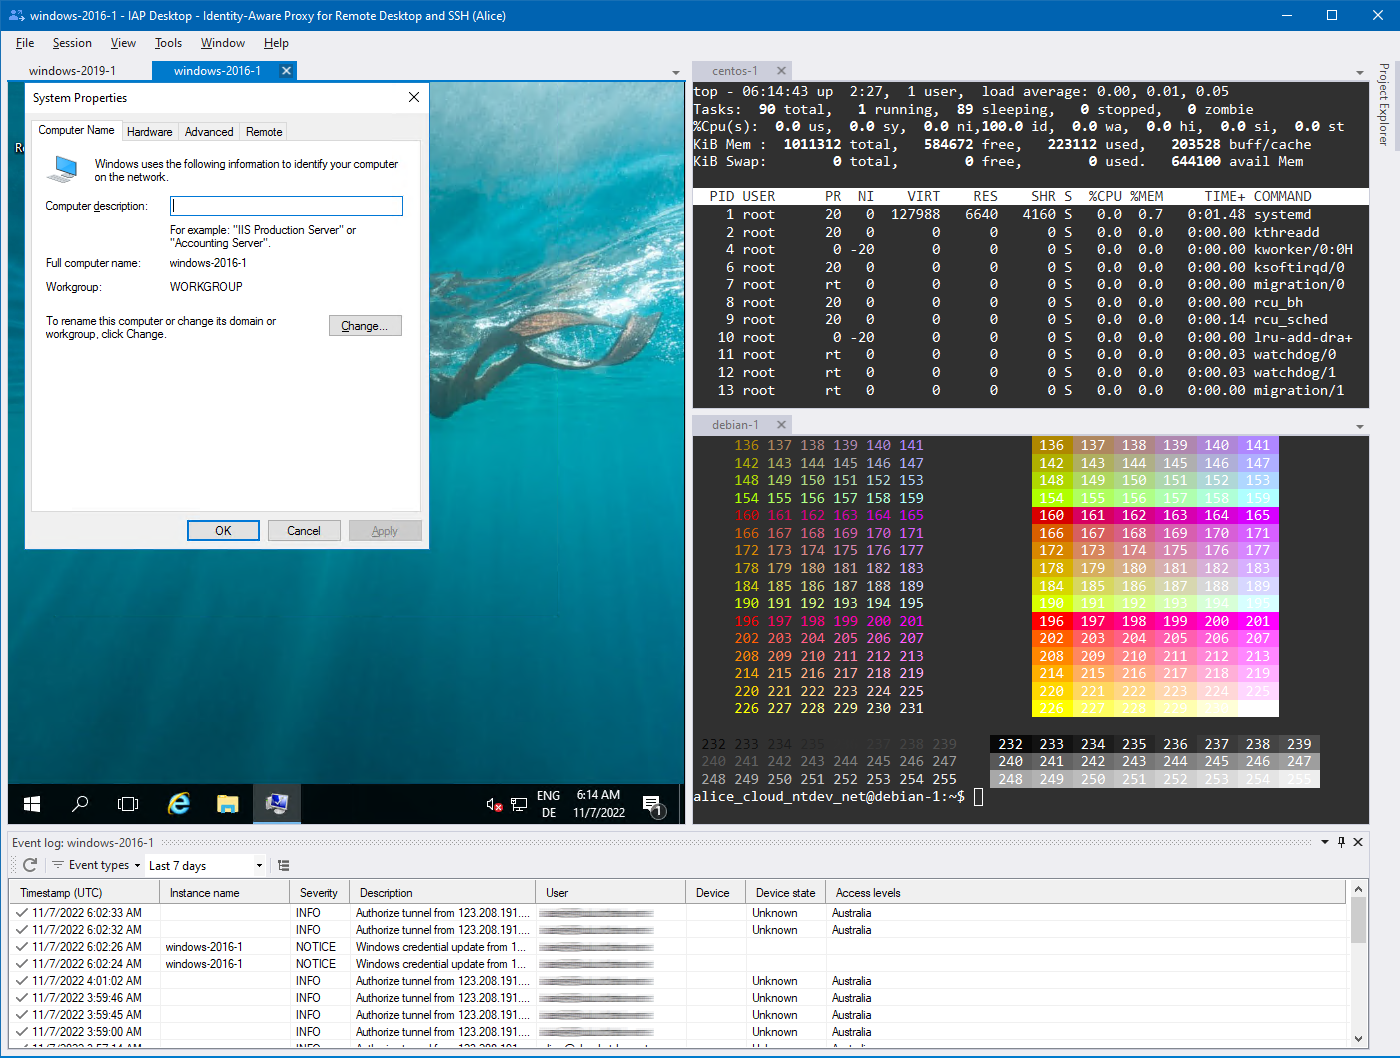
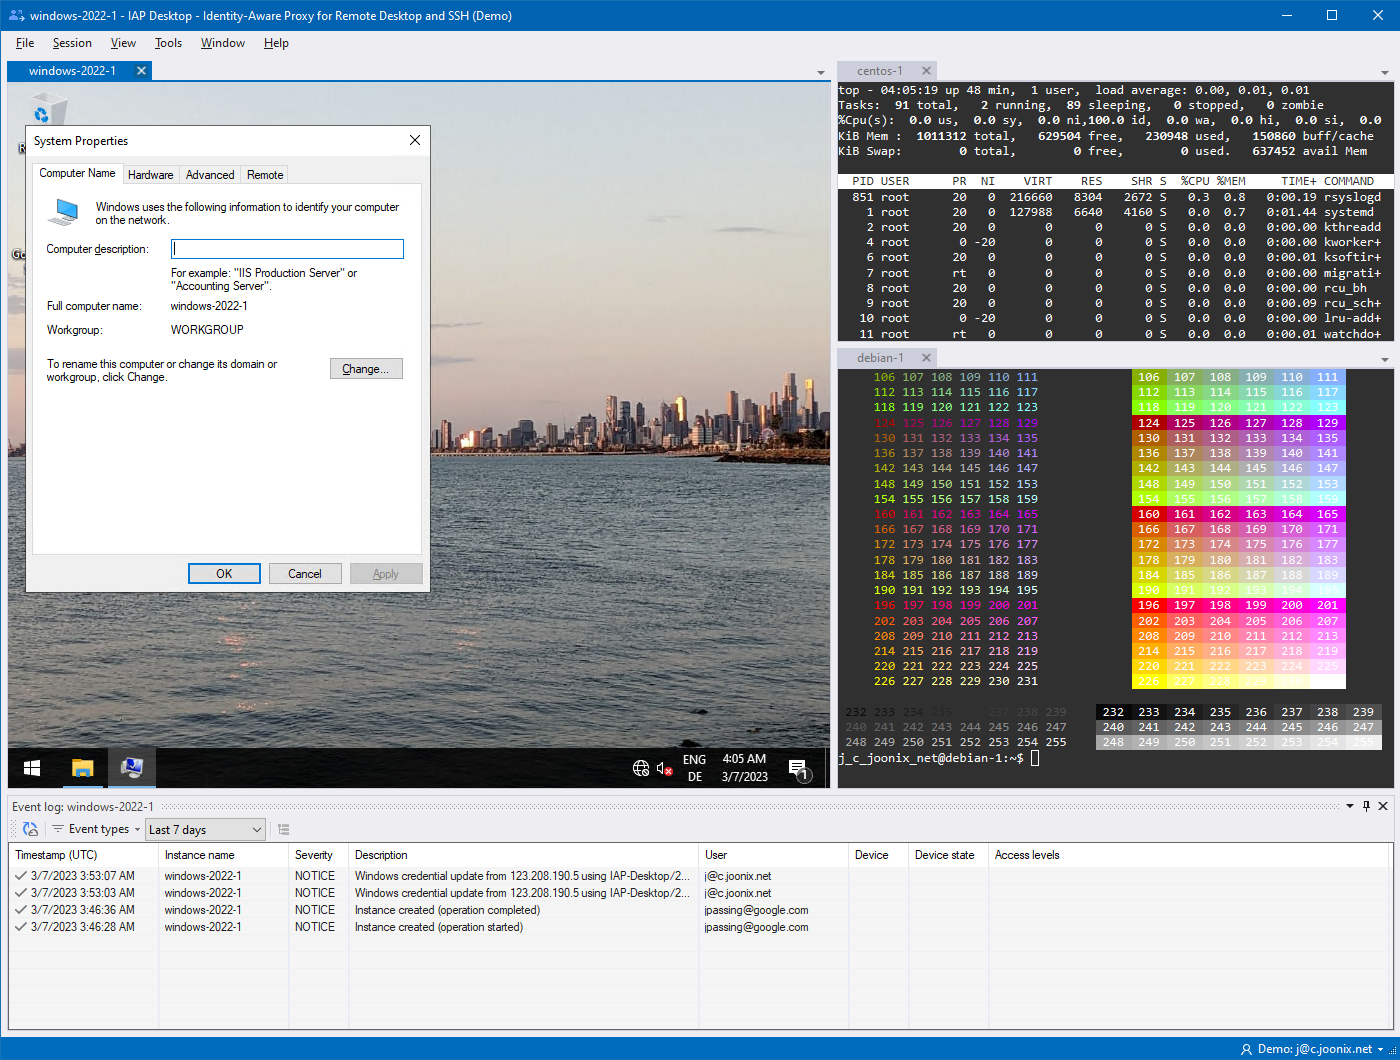
b/268297035 Update screenshots to show new theme (#895)

diff --git a/README.md b/README.md
@@ -31,26 +31,30 @@ The application automatically manages IAP TCP tunnels for you, and protects them
 
 ## Connect to Windows VMs with Remote Desktop
 
-<img src='doc/images/RemoteDesktop_350.gif?_=1' align='right'>
+<a href='doc/images/RemoteDesktop_1400.gif?raw=true'>
+<img src='doc/images/RemoteDesktop_350.png' align='right'>
+</a>
 
 IAP Desktop is a [full-featured Remote Desktop client](https://github.com/GoogleCloudPlatform/iap-desktop/wiki/Connecting-to-instances) that lets you:
 
 *   Use multiple Remote Desktop sessions at the same time
 *   Switch between full-screen and tabbed Remote Desktop sessions
-*   Upload and download files
+*   Upload and download files over SFTP
 
 To help you authenticate to Windows VMs, IAP Desktop can:
 
 *   Automatically generate Windows credentials by using the Compute Engine guest agent environment
 *   Encrypt and store your Windows credentials locally
 
-[View larger screenshot](doc/images/RemoteDesktop_1024.gif?raw=true)
+:arrow_forward: [Show screencast](doc/images/RemoteDesktop_1400.gif?raw=true)
 
 <img src='doc/images/pix.gif' width='100%' height='1'>
 
 ## Connect to Linux VMs with SSH
 
-<img src='doc/images/SSH_350.gif?_=1' align='right'>
+<a href='doc/images/RemoteDesktop_1400.gif?raw=true'>
+<img src='doc/images/SSH_350.png?raw=true' align='right'>
+</a>
 
 IAP Desktop [includes an SSH client and terminal](https://github.com/GoogleCloudPlatform/iap-desktop/wiki/Connecting-to-linux-instances) so that you can:
 
@@ -63,14 +67,16 @@ To help you authenticate to Linux VMs, IAP Desktop can:
 *   Use OS Login [2-factor authentication](https://cloud.google.com/compute/docs/oslogin/set-up-oslogin)
 *   Store our SSH keys locally using Windows CNG
 
-[View larger screenshot](doc/images/SSH_1024.gif?raw=true)
+:arrow_forward: [Show screencast](doc/images/SSH_1400.gif?raw=true)
 
 <img src='doc/images/pix.gif' width='100%' height='1'>
 
 
 ## Manage VMs across projects
 
-<img src='doc/images/Manage_350.gif?_=1' align='right'>
+<a href='doc/images/Manage_1400.gif?raw=true'>
+<img src='doc/images/Manage_350.png?raw=true' align='right'>
+</a>
 
 IAP Desktop gives you a consolidated view of your VMs and lets you:
 
@@ -80,7 +86,7 @@ IAP Desktop gives you a consolidated view of your VMs and lets you:
 *   Perform common operations such as starting or stopping VMs
 
 
-[View larger screenshot](doc/images/Manage_1024.gif?raw=true)
+:arrow_forward: [Show screencast](doc/images/Manage_1400.gif?raw=true)
 
 <img src='doc/images/pix.gif' width='100%' height='1'>
 
